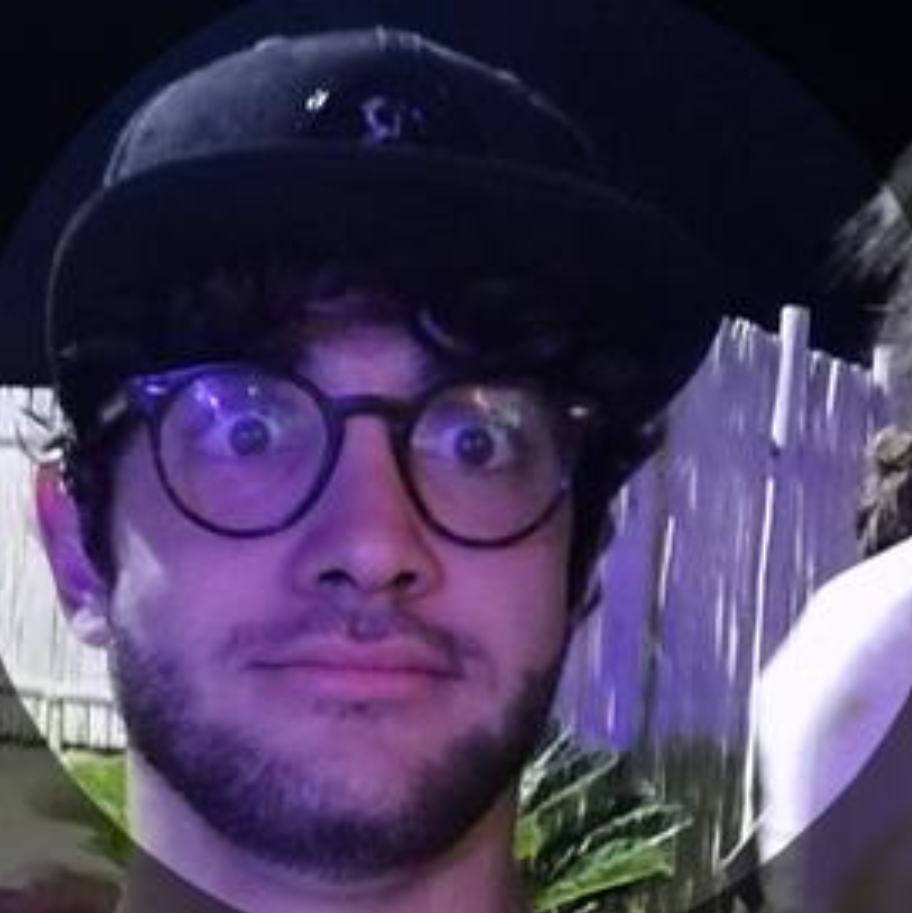
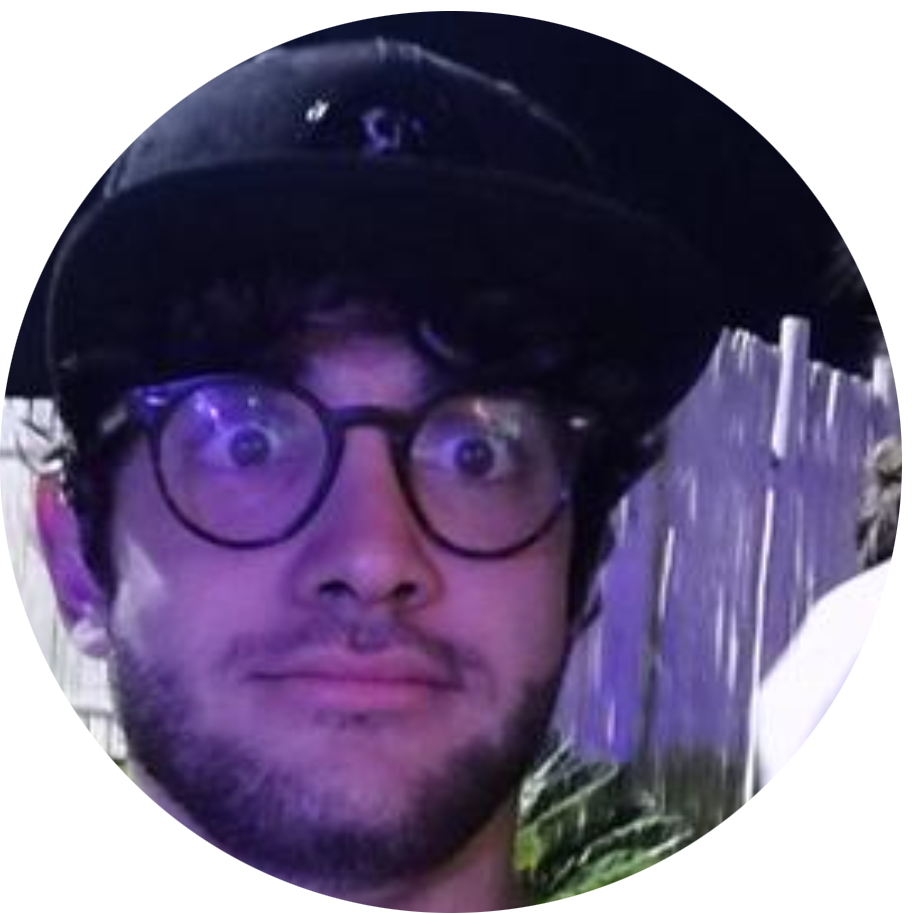
Add files via upload

diff --git a/contacts.html b/contacts.html
@@ -2,6 +2,7 @@
 <head>
     <meta charset="UTF-8">
     <title>ImG</title>
+    <link rel="stylesheet" href="css/contactstyle.css">
     <link rel="stylesheet" href="css/style.css">
     <link rel="icon" href="immagini/icon.png" >
 </head>
@@ -20,21 +21,33 @@
         </nobr>
     </header>
 
-    <div id="contacts">
+    <div>
         <h2>
             Where to find me
         </h2>
         
         <img src="immagini/me.png" alt="Picture of me" id="me">
         
-        <p>
-            @ImG_
-        </p>
-        <p>
-            @ImG_
-        </p>
-        <p>
-            Email: giovannibonini_@outlook.it
-        </p>
+        <section>
+            <a href="https://www.youtube.com/" id="s">
+                <figure>
+                    <img src="immagini/youtube.png" alt="youtube icon link">
+                    <figcaption>@ImG_</figcaption>
+                </figure>
+            </a>
+            <a href="https://twitter.com/home" id="s">
+                <figure>
+                    <img src="immagini/twitter.png" alt="twitter icon link">
+                    <figcaption>@ImG_</figcaption>
+                </figure>
+            </a>
+            <a href = mailto:giovannibonini_@outlook.it id="s">
+                <figure>
+                    <img src="immagini/email.png" alt="email icon link">
+                    <figcaption>giovannibonini_@outlook.it</figcaption>
+                </figure>
+            </a>
+        </section>
+        
     </div>
 </body>

diff --git a/css/contactstyle.css b/css/contactstyle.css
@@ -1,0 +1,31 @@
+#me{
+    width: 20%;
+    float: left;;
+}
+
+img{
+    width: 40px;
+}
+
+p{
+    font-size: 80%;
+    line-height: 200%;
+}
+
+section{
+    float: left;
+}
+
+img,figcaption {
+    margin: 0 0 0 4%;
+    display: inline-block;
+    vertical-align: middle;
+}
+
+#s {
+    text-decoration: none;
+}
+
+section{
+    width:60%;
+}
